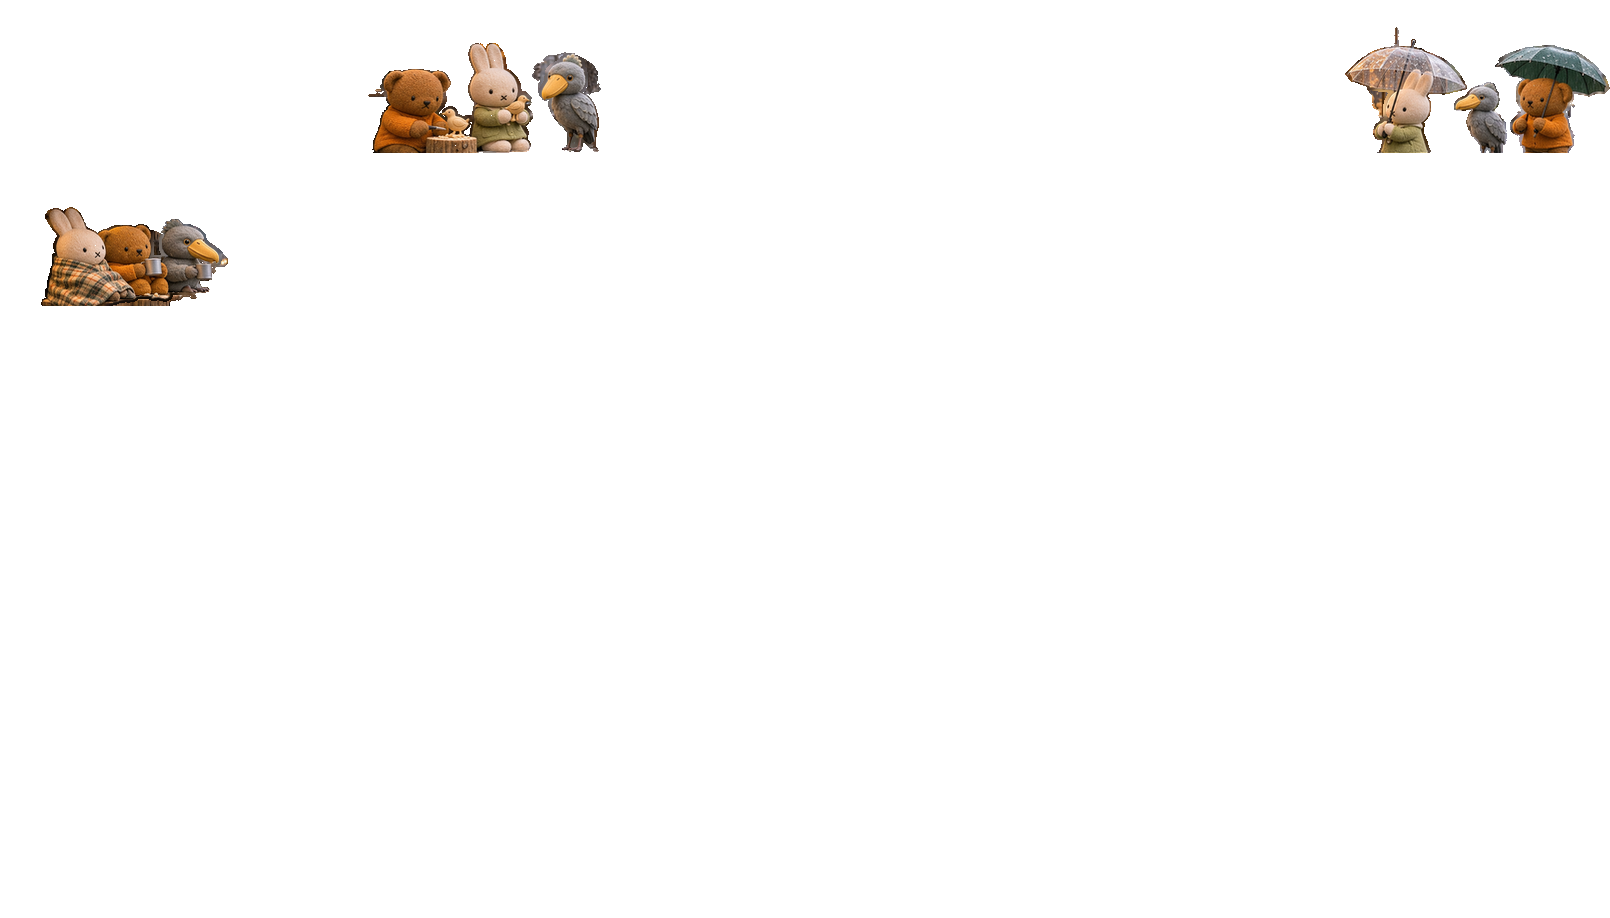
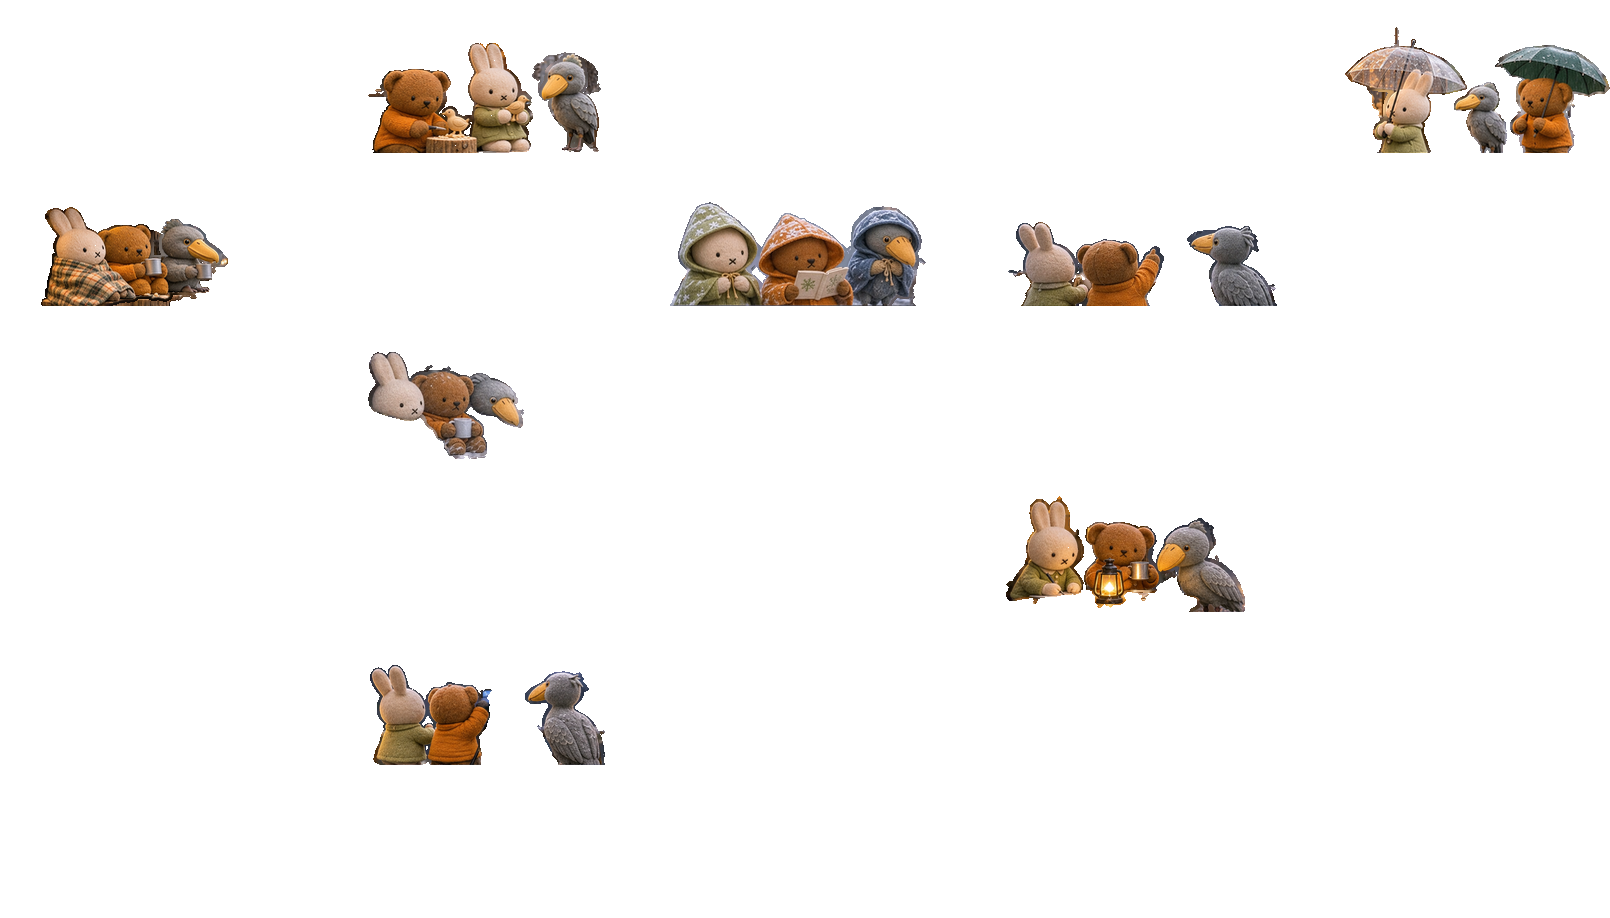
Restore characters and verified landmark backgrounds in 1134 weather scenes

diff --git a/trip-scenery.js b/trip-scenery.js
@@ -105,18 +105,20 @@ const TripScenery = (() => {
     "chitose":{"rev":"2c0921813e0d","tiles":[7]},
     "chitose-b":{"rev":"9be6b1a96022","tiles":[10,11,12,13,14,15,16,17,18,19]},
     "cranes":{"rev":"9dbd65e7429f","tiles":[14]},
+    "cranes-b":{"rev":"21f6c8d71e30","tiles":[0,1,2,3,4,5,7,8,9,10,12,13,14,16,18,19,20,23]},
     "default":{"rev":"63680098c4db","tiles":[1,7,9,13,16]},
     "farm":{"rev":"2758f42d4239","tiles":[4,7,8,11,13]},
     "furano":{"rev":"8d89f832a68d","tiles":[14]},
-    "furano-b":{"rev":"713665869d7b","tiles":[1,4,5]},
+    "furano-b":{"rev":"e2a72323fdf8","tiles":[1,4,5,7,8,11,18,21]},
     "haneda":{"rev":"627adc008342","tiles":[4,10,12]},
     "hkairport":{"rev":"811bca323825","tiles":[1]},
     "hongkong":{"rev":"cdac45524053","tiles":[1,13]},
+    "hongkong-b":{"rev":"7adc360d31eb","tiles":[4,5,6,8,9,22,27,28]},
     "ikebukuro":{"rev":"3eac653f613a","tiles":[6,7,12,17,18]},
     "ikebukuro-b":{"rev":"a483568f1f76","tiles":[6,23]},
     "kushiro":{"rev":"8b3a8b0df30f","tiles":[7]},
     "kussharo":{"rev":"93c2e99f0902","tiles":[4,7]},
-    "kussharo-b":{"rev":"f736117e48c7","tiles":[0,1,5,6,7,8,10,12,13,14,15,16,18,19,20,21,23,25,27,28]},
+    "kussharo-b":{"rev":"94b8fbc4a60d","tiles":[0,1,2,5,6,7,8,10,12,13,14,15,16,18,19,20,21,23,25,26,27,28,29]},
     "marsh":{"rev":"06ee2357488e","tiles":[4,10]},
     "marsh-b":{"rev":"70c1a8dc54b4","tiles":[1,2,10,12,20,25,26,28]},
     "moere":{"rev":"a93c0904ed41","tiles":[1,4,7,14,17]},
@@ -129,30 +131,40 @@ const TripScenery = (() => {
     "roppongi-b":{"rev":"71a283609363","tiles":[6,8,10,11,13,14,15,23,26,29]},
     "rusutsu":{"rev":"4b6c964db70a","tiles":[7,11,16,18]},
     "sapporo":{"rev":"e925743f436f","tiles":[9]},
-    "spot-027c9d1e1":{"rev":"232e8945726d","tiles":[9]},
+    "spot-027c9d1e1":{"rev":"ffc74a33bb42","tiles":[0,9,16]},
+    "spot-027c9d1e1-b":{"rev":"10860e2ebbcf","tiles":[0,1,2,3,6,7,8,9,10,11,13,20,21,29]},
     "spot-06158d8b5":{"rev":"a04051825e6b","tiles":[10,12,13]},
-    "spot-06158d8b5-b":{"rev":"abe0023dec25","tiles":[5,7,8,9,10,12,13,15,17,19,20]},
+    "spot-06158d8b5-b":{"rev":"db66b6a5a4be","tiles":[1,3,5,7,8,9,10,12,13,15,16,17,19,20,21,22,23,25,28,29]},
     "spot-10e7818ff":{"rev":"b81ab9cee190","tiles":[7]},
+    "spot-10e7818ff-b":{"rev":"c07d09e7c4b9","tiles":[0,1,4,8,11,13,14,15,19,20,21,25,26,27,28]},
     "spot-1163438dd":{"rev":"c88b184958b6","tiles":[0,4,5,6,7,8,9,10,11,12,13,14,15,16]},
-    "spot-1163438dd-b":{"rev":"727b626dde4a","tiles":[0,7,10,13,14,18,20,22,25,28]},
+    "spot-1163438dd-b":{"rev":"0de2166efe84","tiles":[0,7,10,13,14,17,18,20,22,25,28]},
     "spot-147b71db6":{"rev":"416d411bcde1","tiles":[7,9]},
-    "spot-1a6f6070c-b":{"rev":"3dd5db446b51","tiles":[0,1,3,4,6,7,8,10,12,13,14,15,18,21,25,26,27,28]},
-    "spot-1d625ae4f-b":{"rev":"a0bebe5d329f","tiles":[0,1,2,3,4,5,6,7,8,9]},
+    "spot-147b71db6-b":{"rev":"4b8ef2787314","tiles":[6]},
+    "spot-1a6f6070c-b":{"rev":"62c17f1225dd","tiles":[0,1,2,3,4,5,6,7,8,9,10,11,12,13,14,15,16,18,19,20,21,23,25,26,27,28]},
+    "spot-1d625ae4f-b":{"rev":"205b749cfbe4","tiles":[0,1,2,3,4,5,6,7,8,9,12,13,17,19]},
     "spot-1f13a90b8":{"rev":"7c6cfdd1cf96","tiles":[0,3,5,7,9,10,13,14,15,16,18,19]},
     "spot-1f13a90b8-b":{"rev":"d10fde68ab2a","tiles":[0,1,3,4,5,6,7,8,9,12,13,14,17,18,20,21,22,23,25,26,27,28,29]},
+    "spot-266ac0336":{"rev":"016e874e488a","tiles":[0,3,4,5,6,7,8,9,10,11,12,13,14,15,16,18,19]},
+    "spot-266ac0336-b":{"rev":"8c9f89513548","tiles":[0,1,2,3,4,5,6,7,8,9,10,11,12,13,14,15,16,17,18,19,20,21,22,23,24,25,26,27,28,29]},
     "spot-269608d5a":{"rev":"fe0e7d68ff92","tiles":[2,14]},
-    "spot-269608d5a-b":{"rev":"9376b9cffcc9","tiles":[1,4,6,7,9]},
+    "spot-269608d5a-b":{"rev":"e285651959fb","tiles":[1,4,6,7,9,12,13,15,16,18]},
+    "spot-29d2293a9-b":{"rev":"afb8bc91dc6a","tiles":[4,5,6,7,9,10,11,12,14,15,16,19]},
     "spot-2e38dcad4":{"rev":"de1a9beaeb6c","tiles":[11,12]},
+    "spot-2e38dcad4-b":{"rev":"acd8e76943e6","tiles":[0,1,2,5,6,7,9,10,12,14,15,16,17]},
     "spot-31c4556cc":{"rev":"a81956a4427b","tiles":[13,14]},
-    "spot-31c4556cc-b":{"rev":"f54a6c9cc97e","tiles":[5,15,18,19,22,23,27]},
+    "spot-31c4556cc-b":{"rev":"713553baa10a","tiles":[1,2,5,7,9,15,18,19,20,21,22,23,24,25,26,27,28,29]},
+    "spot-330159020-b":{"rev":"5974e19a3002","tiles":[7,10,25,29]},
     "spot-33cad23f7":{"rev":"7e078e457fee","tiles":[7]},
     "spot-33cad23f7-b":{"rev":"bdbb10acb290","tiles":[0,1,3,4,5,6,8,9,12,13,14,15,17,20,21,25,26,27,28,29]},
     "spot-3c6782d38":{"rev":"6d3a6ba12242","tiles":[14]},
+    "spot-3c6782d38-b":{"rev":"43034a863e07","tiles":[0,1,2,4,6,7,8,9,12,13,15,17,23,24,27,29]},
     "spot-3f5a2f8fc":{"rev":"f086f04ef697","tiles":[0,1,2,3,7,13,16,17,18,19]},
     "spot-3f5a2f8fc-b":{"rev":"ff81a2823c9c","tiles":[0,1,3,4,5,6,7,8,9,10,12,13,14,15,17,18,19,20,21,22,23,25,26,27,28,29]},
     "spot-3fb8e59e3":{"rev":"c785d47e5bd2","tiles":[0,3,4,5,6,7,8,10,11,12,14,15,16,19]},
     "spot-3fb8e59e3-b":{"rev":"102943bacdc5","tiles":[0,2,3,4,5,6,7,8,9,12,13,14,17,18,20,21,25,26,28,29]},
     "spot-41089f741":{"rev":"8e1833296fca","tiles":[10]},
+    "spot-41089f741-b":{"rev":"33de148795bd","tiles":[11,20,24,25]},
     "spot-4238daf29":{"rev":"bafaee066355","tiles":[2,9]},
     "spot-4398c48a7":{"rev":"717ad5046dbd","tiles":[9,11,15]},
     "spot-46fc6bef6":{"rev":"975e8b2c7046","tiles":[7]},
@@ -177,6 +189,7 @@ const TripScenery = (() => {
     "spot-79865f593":{"rev":"68a20e51f5c4","tiles":[0,8,9,12,13,16]},
     "spot-79865f593-b":{"rev":"3abe5e9e4b19","tiles":[0,1,3,4,5,6,7,8,9,10,12,13,14,15,17,18,19,20,21,22,23,25,26,27,28,29]},
     "spot-7c1b27ec2":{"rev":"a793d4916773","tiles":[4,7]},
+    "spot-7c1b27ec2-b":{"rev":"ae49b1b2941b","tiles":[0,1,2,3,4,6,7,8,9,10,12,13,14,15,16,17,18,19,20,21,22,23,24,25,26,27,28,29]},
     "spot-7fef43934":{"rev":"8d9ca06408b6","tiles":[9,13,18]},
     "spot-86577f3e8":{"rev":"cf23b9d582dc","tiles":[7]},
     "spot-86b29bbb2":{"rev":"be6334feaaa8","tiles":[7,13]},
@@ -212,21 +225,25 @@ const TripScenery = (() => {
     "spot-e4f890e25":{"rev":"b06ab3f29611","tiles":[13,14]},
     "spot-e67324d3f":{"rev":"26c45c1deca1","tiles":[0,7,12,18,19]},
     "spot-e67324d3f-b":{"rev":"22e2ba98c0a8","tiles":[0,1,2,3,4,6,7,8,9,10,12,13,14,15,17,19,20,21,22,25,26,27,28,29]},
+    "spot-e72214aac":{"rev":"a29c666aca8b","tiles":[2,3]},
+    "spot-efe273a59":{"rev":"dd5186451284","tiles":[13]},
     "spot-efe273a59-b":{"rev":"a0235092a66f","tiles":[2,4,12,14,15,18,19,20,23,25,26,28,29]},
     "spot-f029df4f6":{"rev":"ee067dfb9b57","tiles":[4,5,6,8,9,11,12,14,19]},
     "spot-f029df4f6-b":{"rev":"67c9504fae5e","tiles":[0,1,2,3,4,5,6,7,8,9,10,12,13,14,17,22,25,26,28,29]},
+    "spot-f3cd60482":{"rev":"6514406cf4c0","tiles":[8]},
     "spot-f3cd60482-b":{"rev":"7e42452c5bf0","tiles":[1,4,8,20,24,26,27,28]},
     "spot-f3d63d0ed":{"rev":"b2ee43e2f4b2","tiles":[13]},
     "spot-f3d63d0ed-b":{"rev":"e4e7ce5e75f4","tiles":[0,1,2,3,4,5,6,9,10,12,13,14,17,18,19,21,22,23,24,26,27,28,29]},
-    "spot-f7cce1fae":{"rev":"a200eee98c5a","tiles":[7,13]},
+    "spot-f7cce1fae":{"rev":"e0842d997b0f","tiles":[4,7,13]},
     "spot-f7cce1fae-b":{"rev":"3d2d21a5bf5c","tiles":[10,11,17,24,25,29]},
-    "spot-fb71239cf":{"rev":"33df4fa40af7","tiles":[7,8]},
+    "spot-fb71239cf":{"rev":"7a71719715e9","tiles":[7,8,13]},
     "spot-fb71239cf-b":{"rev":"0b3240e57428","tiles":[0,1,5,6,8,9,10,14,15,16,17,20,21,23,26]},
-    "tokachi":{"rev":"b962b660da4e","tiles":[2]},
+    "tokachi":{"rev":"0116c84af815","tiles":[2,7]},
     "tokachi-b":{"rev":"571d05f510e3","tiles":[0,1,2,3,4,5,6,7,8,9,10,11,12,13,14,15,16,17,18,19,20,21,22,23,24,25,26,27,28]},
     "tokyo":{"rev":"6da641a43c64","tiles":[7,11]},
     "tomamu":{"rev":"914c9739a3e3","tiles":[4,14]},
-    "toya":{"rev":"28205ef6262d","tiles":[7]}
+    "toya":{"rev":"28205ef6262d","tiles":[7]},
+    "toya-b":{"rev":"464a2cfb83da","tiles":[0,1,2,4,6,9]}
   };
   function atlasPath(stem){
     const rev=atlasRevisions[stem];

diff --git a/index.html b/index.html
@@ -1,5 +1,5 @@
 <!doctype html>
-<html lang="zh-HK" data-build="20261124-v67">
+<html lang="zh-HK" data-build="20261124-v68">
 <head>
 <meta charset="utf-8">
 <meta name="viewport" content="width=device-width, initial-scale=1, viewport-fit=cover">
@@ -1116,7 +1116,7 @@
       <button data-act="trips">切換旅程</button>
       <button data-act="settings">設定</button>
       <div class="verrow">
-        <div id="ver" data-build="20261124-v67" style="padding-top:0">v67</div>
+        <div id="ver" data-build="20261124-v68" style="padding-top:0">v68</div>
         <button class="forceup" data-act="forceup" type="button">強制更新</button>
       </div>
     </div>
@@ -1182,7 +1182,7 @@
   var SBK = 'sb_publishable_YROUDaSxinrbHH4g7q8gmQ_4za7Ohfj';
   var TABLE='trip_log', AI_URL=SB+'/functions/v1/trip-ai';
   var APP='trip', SESS_KEY='appSession.trip', AUTH=SB+'/functions/v1/app-auth';
-  var APP_VER='20261124-v67';
+  var APP_VER='20261124-v68';
 
   // kind：類型定義（icon、名、有冇座標、預設時間 label）
   var KINDS={
